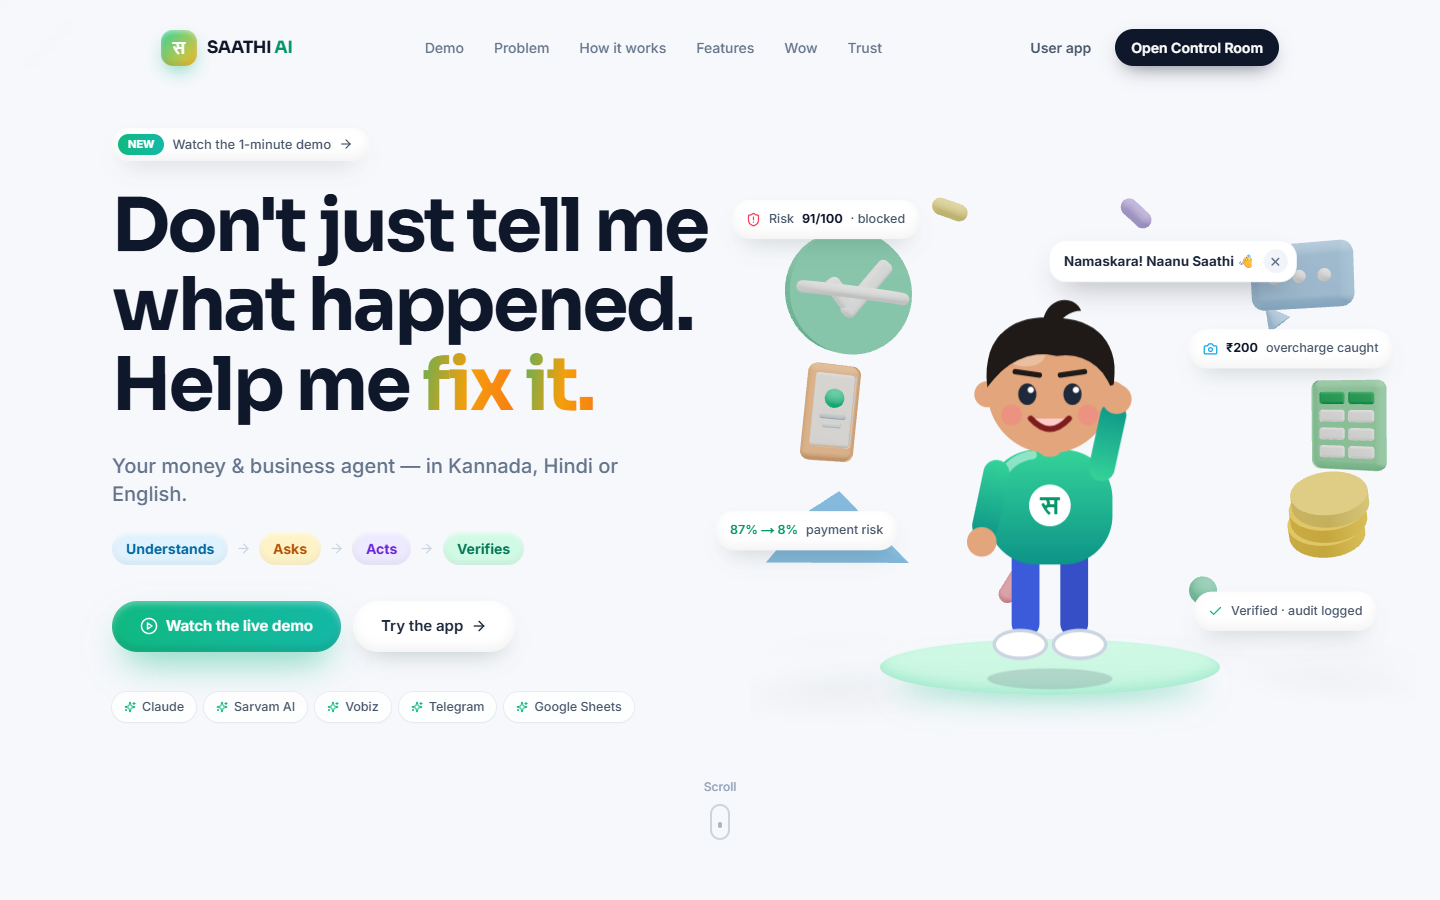
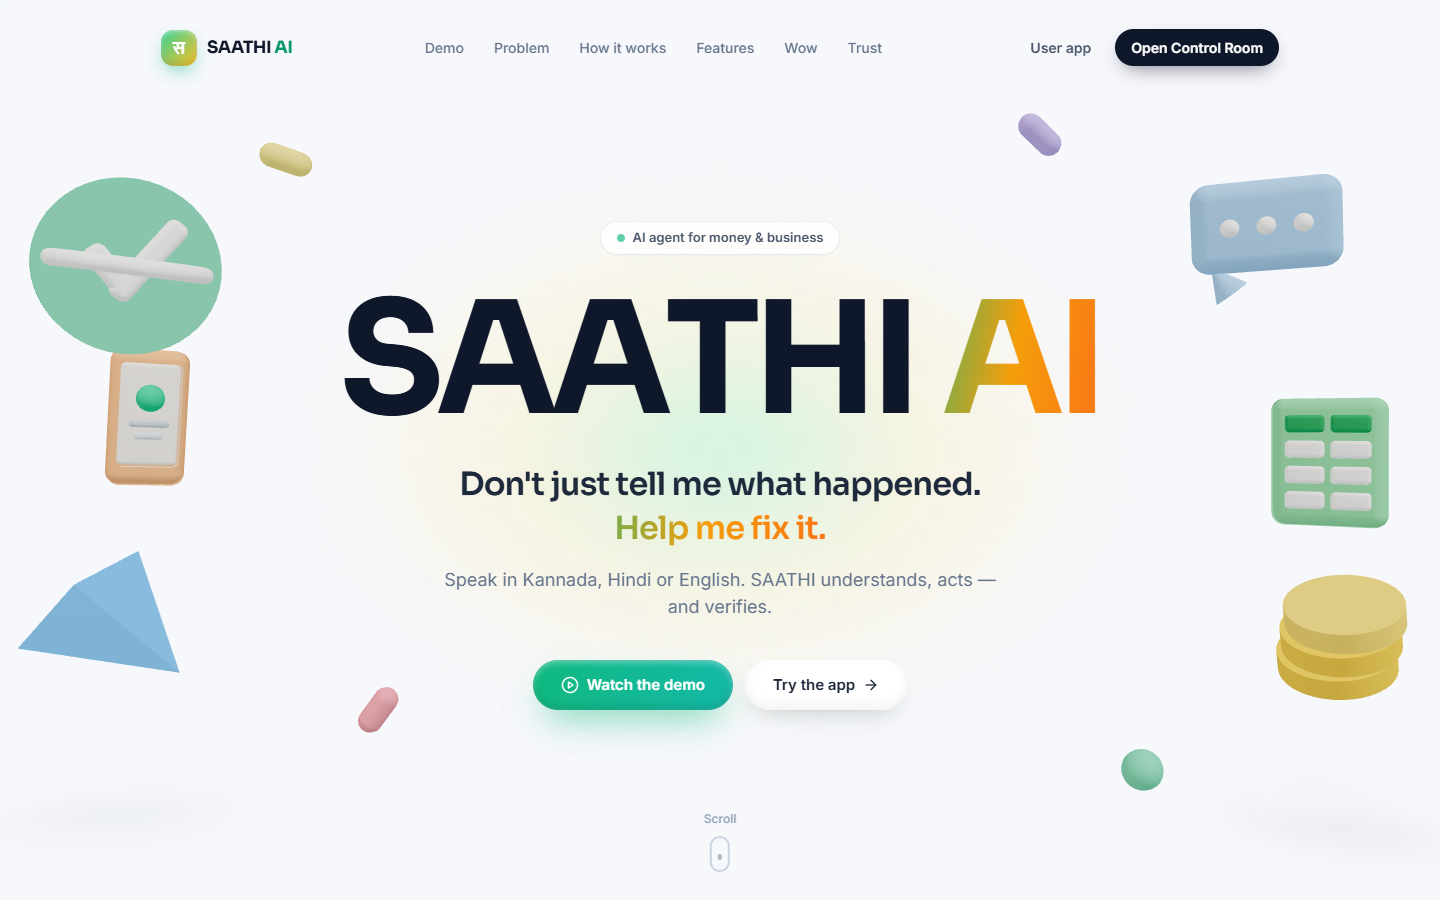
Simplify the landing hero; guide joins below the hero

diff --git a/frontend/components/landing/Hero.tsx b/frontend/components/landing/Hero.tsx
@@ -1,103 +1,64 @@
 "use client";
-import clsx from "clsx";
-import { motion, useMotionValue, useReducedMotion, useScroll, useSpring, useTransform } from "framer-motion";
-import { ArrowRight, Camera, Check, PlayCircle, ShieldAlert, Sparkles } from "lucide-react";
+import { motion, useReducedMotion, useScroll, useTransform } from "framer-motion";
+import { ArrowRight, PlayCircle } from "lucide-react";
 import dynamic from "next/dynamic";
 import { useRef } from "react";
-import { MagneticButton, SplitWords } from "./ui";
+import { MagneticButton } from "./ui";
 
 const ClayScene = dynamic(() => import("./ClayScene"), { ssr: false, loading: () => null });
+const WORD = "SAATHI";
+
 export function Hero() {
   const ref = useRef<HTMLElement>(null);
   const reduce = useReducedMotion();
-  const mx = useMotionValue(0);
-  const my = useMotionValue(0);
-  const sx = useSpring(mx, { stiffness: 60, damping: 16 });
-  const sy = useSpring(my, { stiffness: 60, damping: 16 });
   const { scrollYProgress } = useScroll({ target: ref, offset: ["start start", "end start"] });
-  const phoneY = useTransform(scrollYProgress, [0, 1], [0, 140]);
-  const textY = useTransform(scrollYProgress, [0, 1], [0, -70]);
-  const fade = useTransform(scrollYProgress, [0, 0.8], [1, 0]);
-  const useChip = (depth: number) => ({ x: useTransform(sx, [-1, 1], [-depth, depth]), y: useTransform(sy, [-1, 1], [-depth, depth]) });
-  const c1 = useChip(26), c2 = useChip(40), c3 = useChip(18), c4 = useChip(34);
+  const textY = useTransform(scrollYProgress, [0, 1], [0, -90]);
+  const fade = useTransform(scrollYProgress, [0, 0.7], [1, 0]);
+  const sceneY = useTransform(scrollYProgress, [0, 1], [0, 120]);
 
   return (
-    <section ref={ref} id="top" className="relative min-h-[100svh] overflow-hidden pt-28 md:pt-32"
-      onMouseMove={(e) => {
-        if (reduce) return;
-        mx.set((e.clientX / window.innerWidth) * 2 - 1);
-        my.set((e.clientY / window.innerHeight) * 2 - 1);
-      }}>
-      <div className="mx-auto grid max-w-7xl items-center gap-12 px-5 md:px-8 lg:grid-cols-[1.1fr_1fr]">
-        <motion.div style={{ y: textY, opacity: fade }} className="relative z-10">
-          <motion.a href="#demo" initial={{ opacity: 0, y: 12 }} animate={{ opacity: 1, y: 0 }} transition={{ duration: 0.6 }}
-            className="clay-sm mb-7 inline-flex items-center gap-2 !rounded-full py-1.5 pl-1.5 pr-4 text-[13px] font-medium text-slate-600 transition hover:text-slate-900">
-            <span className="rounded-full bg-gradient-to-r from-emerald-500 to-teal-500 px-2.5 py-0.5 text-[11px] font-bold text-white">NEW</span>
-            Watch the 1-minute demo <ArrowRight size={14} />
-          </motion.a>
-          <h1 className="font-display text-[44px] font-bold leading-[1.02] tracking-[-0.035em] text-slate-900 sm:text-6xl lg:text-[74px]">
-            <SplitWords text="Don't just tell me what happened." />
-            <br />
-            <SplitWords text="Help me fix it." delay={0.45} highlight={["fix", "it"]} />
-          </h1>
-          <motion.p initial={{ opacity: 0, y: 16 }} animate={{ opacity: 1, y: 0 }} transition={{ delay: 1.05, duration: 0.8 }}
-            className="mt-6 max-w-xl text-[18px] font-medium text-slate-500 md:text-xl">
-            Your money &amp; business agent — in Kannada, Hindi or English.
-          </motion.p>
-          <div className="mt-6 flex flex-wrap items-center gap-2">
-            {[["Understands", "bg-sky-100 text-sky-700"], ["Asks", "bg-amber-100 text-amber-700"], ["Acts", "bg-violet-100 text-violet-700"], ["Verifies", "bg-emerald-100 text-emerald-700"]].map(([w, c], i) => (
-              <motion.span key={w} initial={{ opacity: 0, scale: 0.6, y: 10 }} animate={{ opacity: 1, scale: 1, y: 0 }} transition={{ delay: 1.2 + i * 0.18, type: "spring", stiffness: 260, damping: 16 }}
-                className="flex items-center gap-2">
-                <span className={clsx("rounded-full px-3.5 py-1.5 text-[14px] font-bold shadow-[inset_0_-3px_6px_rgba(15,23,42,.06),inset_0_2px_4px_rgba(255,255,255,.7)]", c)}>{w}</span>
-                {i < 3 && <ArrowRight size={15} className="text-slate-300" />}
-              </motion.span>
-            ))}
-          </div>
-          <motion.div initial={{ opacity: 0, y: 16 }} animate={{ opacity: 1, y: 0 }} transition={{ delay: 1.3, duration: 0.8 }} className="mt-9 flex flex-wrap items-center gap-3">
-            <MagneticButton href="/console"><PlayCircle size={18} /> Watch the live demo</MagneticButton>
-            <MagneticButton href="/app" variant="ghost">Try the app <ArrowRight size={16} /></MagneticButton>
-          </motion.div>
-          <motion.div initial={{ opacity: 0 }} animate={{ opacity: 1 }} transition={{ delay: 1.6 }} className="mt-10 flex flex-wrap items-center gap-2">
-            {["Claude", "Sarvam AI", "Vobiz", "Telegram", "Google Sheets"].map((t) => (
-              <span key={t} className="flex items-center gap-1.5 rounded-full bg-white/80 px-3 py-1.5 text-[12.5px] font-medium text-slate-600 shadow-sm ring-1 ring-slate-200/70 backdrop-blur">
-                <Sparkles size={12} className="text-emerald-500" />{t}
-              </span>
-            ))}
-          </motion.div>
+    <section ref={ref} id="top" className="relative flex min-h-[100svh] items-center justify-center overflow-hidden px-5 pb-20 pt-28">
+      <motion.div style={{ y: sceneY }} className="pointer-events-none absolute inset-0">{!reduce && <ClayScene wide />}</motion.div>
+      <div className="pointer-events-none absolute left-1/2 top-1/2 h-[520px] w-[820px] max-w-[95vw] -translate-x-1/2 -translate-y-1/2 rounded-full bg-[radial-gradient(closest-side,rgba(167,243,208,.55),rgba(253,230,138,.25),transparent)] blur-2xl" />
+
+      <motion.div style={{ y: textY, opacity: fade }} className="relative z-10 mx-auto max-w-4xl text-center">
+        <motion.div initial={{ opacity: 0, y: 12 }} animate={{ opacity: 1, y: 0 }} transition={{ duration: 0.6 }}
+          className="inline-flex items-center gap-2 rounded-full bg-white/80 px-4 py-1.5 text-[13px] font-semibold text-slate-600 shadow-sm ring-1 ring-slate-200/70 backdrop-blur">
+          <span className="h-2 w-2 animate-pulse rounded-full bg-emerald-500" /> AI agent for money &amp; business
         </motion.div>
 
-        <motion.div style={{ y: phoneY }} className="relative [perspective:1200px]">
-          <div className="pointer-events-none absolute inset-[-10%_-16%_-8%_-4%]">{!reduce && <ClayScene />}</div>
-          <div id="guide-home" className="relative z-10 mx-auto h-[540px] w-full max-w-[420px]">
-            <div className="absolute inset-x-10 bottom-0 h-14 rounded-[50%] bg-gradient-to-b from-emerald-100 to-emerald-200/60 shadow-[inset_0_-6px_12px_rgba(16,185,129,.18),0_18px_30px_-18px_rgba(16,185,129,.6)]" />
-          </div>
-          <FloatChip style={c1} className="-left-2 top-12 md:-left-10" delay={1.2}><ShieldAlert size={15} className="text-rose-500" /> Risk <b className="text-slate-900">91/100</b> · blocked</FloatChip>
-          <FloatChip style={c2} className="-right-2 top-44 md:-right-24 lg:-right-16" delay={1.45}><Camera size={15} className="text-sky-500" /> <b className="text-slate-900">₹200</b> overcharge caught</FloatChip>
-          <FloatChip style={c3} className="-left-4 bottom-36 md:-left-14" delay={1.7}><span className="font-semibold text-emerald-600">87% → 8%</span> payment risk</FloatChip>
-          <FloatChip style={c4} className="-right-4 bottom-16 md:-right-12" delay={1.95}><Check size={15} className="text-emerald-500" /> Verified · audit logged</FloatChip>
-        </motion.div>
-      </div>
-      <motion.div style={{ opacity: fade }} className="mt-14 flex justify-center pb-8">
-        <a href="#demo" className="group flex flex-col items-center gap-2 text-[12px] font-medium text-slate-400">
-          Scroll
-          <span className="grid h-9 w-5 justify-center rounded-full border-2 border-slate-300 pt-1.5">
-            <motion.span animate={{ y: [0, 10, 0], opacity: [1, 0.2, 1] }} transition={{ repeat: Infinity, duration: 1.8 }} className="h-1.5 w-1 rounded-full bg-slate-500" />
+        <h1 className="font-display mt-7 flex items-baseline justify-center gap-[0.18em] text-[76px] font-bold leading-none tracking-[-0.05em] text-slate-900 sm:text-[120px] lg:text-[156px]">
+          <span className="flex">
+            {WORD.split("").map((c, i) => (
+              <motion.span key={i} className="inline-block" initial={reduce ? false : { y: "60%", opacity: 0, rotate: -8 }} animate={{ y: "0%", opacity: 1, rotate: 0 }}
+                transition={{ delay: 0.15 + i * 0.07, type: "spring", stiffness: 260, damping: 18 }}>{c}</motion.span>
+            ))}
           </span>
-        </a>
-      </motion.div>
-    </section>
-  );
-}
+          <motion.span className="text-gradient" initial={reduce ? false : { scale: 0.4, opacity: 0 }} animate={{ scale: 1, opacity: 1 }}
+            transition={{ delay: 0.75, type: "spring", stiffness: 220, damping: 14 }}>AI</motion.span>
+        </h1>
 
-function FloatChip({ children, className, style, delay }: { children: React.ReactNode; className?: string; style: any; delay: number }) {
-  return (
-    <motion.div style={style} className={clsx("absolute z-20 hidden sm:block", className)}>
-      <motion.div initial={{ opacity: 0, scale: 0.6, y: 20 }} animate={{ opacity: 1, scale: 1, y: 0 }} transition={{ delay, type: "spring", stiffness: 160, damping: 14 }}>
-        <motion.div animate={{ y: [0, -8, 0] }} transition={{ repeat: Infinity, duration: 4 + delay, ease: "easeInOut" }}
-          className="clay-sm flex items-center gap-2 whitespace-nowrap px-3.5 py-2.5 text-[12.5px] font-medium text-slate-600">
-          {children}
+        <motion.p initial={{ opacity: 0, y: 16 }} animate={{ opacity: 1, y: 0 }} transition={{ delay: 1.0, duration: 0.7 }}
+          className="font-display mx-auto mt-6 max-w-2xl text-[24px] font-semibold leading-snug tracking-tight text-slate-800 md:text-[32px]">
+          Don't just tell me what happened.<br /><span className="text-gradient">Help me fix it.</span>
+        </motion.p>
+        <motion.p initial={{ opacity: 0, y: 16 }} animate={{ opacity: 1, y: 0 }} transition={{ delay: 1.2, duration: 0.7 }}
+          className="mx-auto mt-4 max-w-xl text-[16px] text-slate-500 md:text-[18px]">
+          Speak in Kannada, Hindi or English. SAATHI understands, acts — and verifies.
+        </motion.p>
+
+        <motion.div initial={{ opacity: 0, y: 16 }} animate={{ opacity: 1, y: 0 }} transition={{ delay: 1.4, duration: 0.7 }} className="mt-10 flex flex-wrap items-center justify-center gap-3">
+          <MagneticButton href="#demo"><PlayCircle size={18} /> Watch the demo</MagneticButton>
+          <MagneticButton href="/app" variant="ghost">Try the app <ArrowRight size={16} /></MagneticButton>
         </motion.div>
       </motion.div>
-    </motion.div>
+
+      <motion.a href="#demo" style={{ opacity: fade }} className="absolute bottom-7 left-1/2 flex -translate-x-1/2 flex-col items-center gap-2 text-[12px] font-medium text-slate-400">
+        Scroll
+        <span className="grid h-9 w-5 justify-center rounded-full border-2 border-slate-300 pt-1.5">
+          <motion.span animate={{ y: [0, 10, 0], opacity: [1, 0.2, 1] }} transition={{ repeat: Infinity, duration: 1.8 }} className="h-1.5 w-1 rounded-full bg-slate-500" />
+        </span>
+      </motion.a>
+    </section>
   );
 }

diff --git a/frontend/components/landing/Guide.tsx b/frontend/components/landing/Guide.tsx
@@ -5,9 +5,9 @@ import { Sparkles, X } from "lucide-react";
 import { useEffect, useRef, useState } from "react";
 
 /*
- * Saathi, the cartoon guide. He lives in the hero, then walks along the page margins as the
- * visitor scrolls — facing, stepping and leaning from his real motion. Closing him sends him
- * back to the hero, where he stays (preference remembered per browser).
+ * Saathi, the cartoon guide. He walks in below the hero and travels along the page margins as the
+ * visitor scrolls — facing, stepping and leaning from his real motion. He stays out of the hero;
+ * closing him sends him off-screen until "Bring Saathi back" (preference remembered per browser).
  */
 
 type Pose = "idle" | "wave" | "point" | "think" | "cheer" | "alarm";
@@ -101,15 +101,14 @@ export function Guide() {
   const [follow, setFollow] = useState(true);
   const [ready, setReady] = useState(false);
   const [stop, setStop] = useState("top");
-  const [align, setAlign] = useState<"center" | Side>("center");
+  const [align, setAlign] = useState<"center" | Side>("right");
   const [walking, setWalking] = useState(false);
   const [facing, setFacing] = useState(1);
   const [talking, setTalking] = useState(true);
   const [poke, setPoke] = useState<string | null>(null);
   const followRef = useRef(true);
   const stopRef = useRef("top");
-  const alignRef = useRef<"center" | Side>("center");
-  const attached = useRef(false);
+  const alignRef = useRef<"center" | Side>("right");
   const readyRef = useRef(false);
 
   const tx = useMotionValue(-400), ty = useMotionValue(-400), ts = useMotionValue(1);
@@ -142,7 +141,7 @@ export function Guide() {
 
   // remembered preference
   useEffect(() => {
-    try { if (localStorage.getItem(KEY) === "off") { followRef.current = false; attached.current = true; setFollow(false); } } catch {}
+    try { if (localStorage.getItem(KEY) === "off") { followRef.current = false; setFollow(false); } } catch {}
   }, []);
 
   // position: hero home, or a margin "dock" for the current section
@@ -159,21 +158,16 @@ export function Guide() {
         if (r.top <= mid && r.bottom >= mid) { cur = id; break; }
       }
       if (cur !== stopRef.current) { stopRef.current = cur; setStop(cur); }
-      const home = document.getElementById("guide-home")?.getBoundingClientRect();
-      let X: number, Y: number, S: number, A: "center" | Side;
-      if (!followRef.current || cur === "top") {
-        if (!home) return;
-        S = Math.max(0.7, Math.min(2.1, (home.height * 0.74) / H));
-        X = home.left + home.width / 2; Y = home.bottom - 6; A = "center";
-      } else {
-        const side = STOPS[cur].side;
-        const margin = (vw - CONTENT) / 2;
-        if (margin >= 130) { S = 0.75; X = side === "left" ? margin / 2 : vw - margin / 2; Y = vh - 26; A = side; }
-        else { S = vw < 640 ? 0.42 : 0.55; X = vw - (W * S) / 2 - 10; Y = vh - 8; A = "right"; }
-      }
+      let X: number, Y: number, S: number, A: Side;
+      const side = STOPS[cur].side;
+      const margin = (vw - CONTENT) / 2;
+      if (margin >= 130) { S = 0.75; X = side === "left" ? margin / 2 : vw - margin / 2; Y = vh - 26; A = side; }
+      else { S = vw < 640 ? 0.42 : 0.55; X = vw - (W * S) / 2 - 10; Y = vh - 8; A = "right"; }
+      // hero, or switched off: wait just below the screen
+      if (!followRef.current || cur === "top") Y = vh + H * S + 80;
       tx.set(X); ty.set(Y); ts.set(S);
       if (A !== alignRef.current) { alignRef.current = A; setAlign(A); }
-      if (!readyRef.current || attached.current) { x.jump(X); y.jump(Y); s.jump(S); }
+      if (!readyRef.current) { x.jump(X); y.jump(Y); s.jump(S); }
       if (!readyRef.current) { readyRef.current = true; setReady(true); }
     };
     const on = () => { if (!raf) raf = requestAnimationFrame(update); };
@@ -195,8 +189,6 @@ export function Guide() {
     followRef.current = on;
     setFollow(on);
     try { localStorage.setItem(KEY, on ? "on" : "off"); } catch {}
-    attached.current = false;
-    if (!on) setTimeout(() => { if (!followRef.current) attached.current = true; }, 1600);
     window.dispatchEvent(new Event("scroll"));
   };
   const onPoke = () => {
@@ -210,7 +202,7 @@ export function Guide() {
   const line = poke || (!follow ? "Want me to guide you?" : cfg.line);
   const restingFace = align === "left" ? 1 : align === "right" ? -1 : 1;
   const face = walking ? facing : restingFace;
-  const heroOffscreen = !follow && stop !== "top";
+  const showRestore = !follow && stop !== "top";
 
   return (
     <>
@@ -244,7 +236,7 @@ export function Guide() {
 
       {/* bring him back once he has been dismissed and the hero is out of view */}
       <AnimatePresence>
-        {heroOffscreen && (
+        {showRestore && (
           <motion.button initial={{ opacity: 0, y: 20 }} animate={{ opacity: 1, y: 0 }} exit={{ opacity: 0, y: 20 }} onClick={() => setFollowing(true)}
             className="clay-sm fixed bottom-5 left-5 z-40 flex items-center gap-2 !rounded-full py-2 pl-2 pr-4 text-[13px] font-bold text-slate-700">
             <span className="grid h-7 w-7 place-items-center rounded-full bg-gradient-to-br from-emerald-400 to-teal-500 text-white"><Sparkles size={14} /></span>

diff --git a/frontend/components/landing/ClayScene.tsx b/frontend/components/landing/ClayScene.tsx
@@ -118,8 +118,10 @@ function Rig({ children }: { children: React.ReactNode }) {
   return <group ref={group}>{children}</group>;
 }
 
-export default function ClayScene({ still = false }: { still?: boolean }) {
+export default function ClayScene({ still = false, wide = false }: { still?: boolean; wide?: boolean }) {
   const speed = still ? 0 : 1;
+  // wide: spread objects towards the edges, leaving the centre for the headline
+  const P = (x: number, y: number, z: number): [number, number, number] => (wide ? [Math.sign(x) * (Math.abs(x) * 0.9 + 2.1), y * 1.05, z] : [x, y, z]);
   return (
     <Canvas dpr={[1, 1.75]} camera={{ position: [0, 0, 9.5], fov: 38 }} frameloop={still ? "demand" : "always"} gl={{ antialias: true, alpha: true }} shadows>
       <ambientLight intensity={0.85} />
@@ -127,16 +129,16 @@ export default function ClayScene({ still = false }: { still?: boolean }) {
       <directionalLight position={[3, 5, 4]} intensity={1.15} castShadow shadow-mapSize={[1024, 1024]} />
       <directionalLight position={[-4, 2, 2]} intensity={0.35} color="#ffe7cf" />
       <Rig>
-        <Float speed={1.6 * speed} rotationIntensity={0.6} floatIntensity={1.1}><Shield position={[-2.35, 1.25, 0]} rotation={[0.2, 0.45, -0.15]} /></Float>
-        <Float speed={1.3 * speed} rotationIntensity={0.5} floatIntensity={0.9}><Coins position={[2.45, -1.25, 0.2]} rotation={[0.4, 0.2, 0.25]} /></Float>
-        <Float speed={1.8 * speed} rotationIntensity={0.7} floatIntensity={1.2}><Bubble position={[2.3, 1.45, -0.3]} rotation={[0.1, -0.4, 0.08]} scale={0.85} /></Float>
-        <Float speed={2.1 * speed} rotationIntensity={1} floatIntensity={1.4}><Plane position={[-2.45, -1.15, 0.4]} rotation={[0.4, 0.9, 0.3]} scale={0.95} /></Float>
-        <Float speed={1.4 * speed} rotationIntensity={0.5} floatIntensity={0.8}><Sheet position={[2.9, 0.1, -1]} rotation={[0.1, -0.6, 0.05]} scale={0.8} /></Float>
-        <Float speed={1.5 * speed} rotationIntensity={0.6} floatIntensity={0.9}><Phone position={[-3.0, 0.15, -1.1]} rotation={[0.1, 0.6, -0.1]} scale={0.85} /></Float>
-        <Float speed={2.6 * speed} floatIntensity={2}><Pill color="#c4b5fd" position={[0.9, 2.15, -1.4]} rotation={[0, 0, 0.8]} /></Float>
-        <Float speed={2.3 * speed} floatIntensity={2}><Pill color="#fda4af" position={[-0.8, -2.05, -0.8]} rotation={[0, 0, -0.6]} /></Float>
-        <Float speed={2.8 * speed} floatIntensity={2}><Pill color="#fde68a" position={[-1.3, 2.25, -1.6]} rotation={[0.4, 0, 1.2]} /></Float>
-        <Float speed={2.4 * speed} floatIntensity={2}><mesh position={[1.4, -2.2, -1]}><sphereGeometry args={[0.16, 32, 32]} /><Clay color="#7ddcb4" /></mesh></Float>
+        <Float speed={1.6 * speed} rotationIntensity={0.6} floatIntensity={1.1}><Shield position={P(-2.35, 1.25, 0)} rotation={[0.2, 0.45, -0.15]} /></Float>
+        <Float speed={1.3 * speed} rotationIntensity={0.5} floatIntensity={0.9}><Coins position={P(2.45, -1.25, 0.2)} rotation={[0.4, 0.2, 0.25]} /></Float>
+        <Float speed={1.8 * speed} rotationIntensity={0.7} floatIntensity={1.2}><Bubble position={P(2.3, 1.45, -0.3)} rotation={[0.1, -0.4, 0.08]} scale={0.85} /></Float>
+        <Float speed={2.1 * speed} rotationIntensity={1} floatIntensity={1.4}><Plane position={P(-2.45, -1.15, 0.4)} rotation={[0.4, 0.9, 0.3]} scale={0.95} /></Float>
+        <Float speed={1.4 * speed} rotationIntensity={0.5} floatIntensity={0.8}><Sheet position={P(2.9, 0.1, -1)} rotation={[0.1, -0.6, 0.05]} scale={0.8} /></Float>
+        <Float speed={1.5 * speed} rotationIntensity={0.6} floatIntensity={0.9}><Phone position={P(-3.0, 0.15, -1.1)} rotation={[0.1, 0.6, -0.1]} scale={0.85} /></Float>
+        <Float speed={2.6 * speed} floatIntensity={2}><Pill color="#c4b5fd" position={P(0.9, 2.15, -1.4)} rotation={[0, 0, 0.8]} /></Float>
+        <Float speed={2.3 * speed} floatIntensity={2}><Pill color="#fda4af" position={P(-0.8, -2.05, -0.8)} rotation={[0, 0, -0.6]} /></Float>
+        <Float speed={2.8 * speed} floatIntensity={2}><Pill color="#fde68a" position={P(-1.3, 2.25, -1.6)} rotation={[0.4, 0, 1.2]} /></Float>
+        <Float speed={2.4 * speed} floatIntensity={2}><mesh position={P(1.4, -2.2, -1)}><sphereGeometry args={[0.16, 32, 32]} /><Clay color="#7ddcb4" /></mesh></Float>
       </Rig>
       <ContactShadows position={[0, -2.6, 0]} opacity={0.12} scale={12} blur={3.2} far={4.5} color="#1f4d3f" />
     </Canvas>

diff --git a/README.md b/README.md
@@ -98,7 +98,7 @@ Two users run through the whole product:
 
 A bright, claymorphic front door at `/` — word-by-word headline reveal, a phone mockup cycling through live SAATHI scenes over a floating Three.js clay scene (shield, coins, Telegram plane, spreadsheet), a scroll-pinned *Action Gap* story, a self-drawing loop diagram, a spotlight bento grid, live Scam Shield / Snap & Act demos, animated counters and a scroll-driven screenshot gallery (framer-motion + Lenis + React Three Fiber, honours *reduce motion*).
 
-A cartoon guide, **Saathi**, waves from the hero and then walks along the page margins as you scroll — new pose and one-line tip per section, stepping and leaning with real motion; close him with ✕ and he walks back home (remembered per browser).
+A clean hero — just **SAATHI AI**, the tagline and two buttons over floating 3D clay objects. Below it, a cartoon guide, **Saathi**, walks in and travels along the page margins as you scroll — new pose and one-line tip per section, stepping and leaning with real motion; close him with ✕ (remembered per browser) and bring him back any time.
 
 The centrepiece is a **one-minute cartoon product demo** built into the page: a video-style player with an **Indian male voiceover** (Sarvam Bulbul v3, pre-rendered per chapter and kept in sync with the playhead), play/pause, a scrubbable chapter timeline, captions and muted autoplay when in view. It animates the whole workflow — a suspicious payment, SAATHI calling Rahul through Sarvam + Vobiz, Claude choosing tools, the Telegram approval, Lakshmi's Google Sheet, the supplier tapping ACCEPT, Snap & Act catching an overcharge, and the audit trail verifying every step.
 
